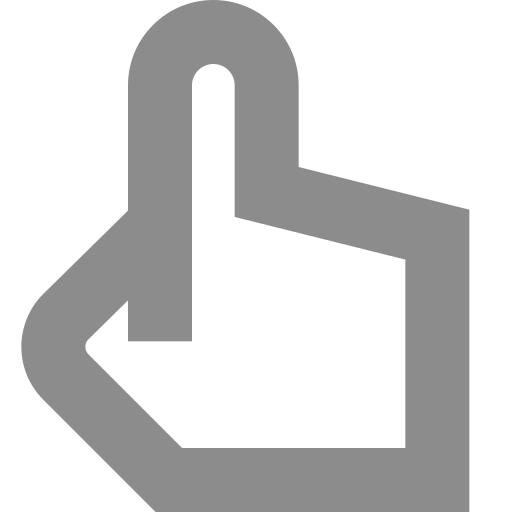
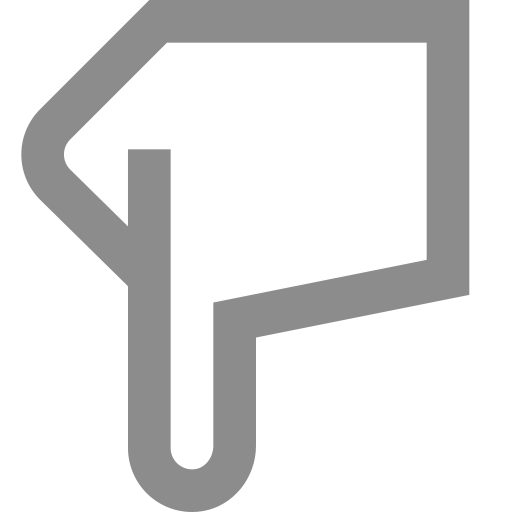
[0602: Styling Changes]

diff --git a/FRONT/src/COMPONENTs/ConnectXBoard/ConnectXBoard.js b/FRONT/src/COMPONENTs/ConnectXBoard/ConnectXBoard.js
@@ -6,20 +6,22 @@ import { ConnectXBoardContexts } from "../../CONTEXTs/ConnectXBoardContexts";
 import BOX_DARK from "./IMGs/board_box_dark_theme.svg";
 
 import player_1_finger_cursor_dark_theme from "./IMGs/player_1_finger_cursor_dark_theme.png";
+import player_1_finger_snap_dark_theme from "./IMGs/player_1_finger_snap_dark_theme.png";
 import player_2_finger_cursor_dark_theme from "./IMGs/player_2_finger_cursor_dark_theme.png";
+import player_2_finger_snap_dark_theme from "./IMGs/player_2_finger_snap_dark_theme.png";
 /* IMGs -------------------------------------------------------------------------------------------------- */
 const EMPTY_BOARD = [
-  [0, 0, 0, 0, 0, 0],
-  [0, 0, 0, 0, 0, 0],
-  [0, 0, 0, 0, 0, 0],
-  [0, 0, 0, 0, 0, 0],
-  [0, 0, 0, 0, 0, 0],
-  [0, 0, 0, 0, 0, 0],
+  [0, 0, 0, 0, 0, 0, 0],
+  [0, 0, 0, 0, 0, 0, 0],
+  [0, 0, 0, 0, 0, 0, 0],
+  [0, 0, 0, 0, 0, 0, 0],
+  [0, 0, 0, 0, 0, 0, 0],
+  [0, 0, 0, 0, 0, 0, 0],
 ];
 /* CONSTs ----------------------------------------------------------------------------------------- CONSTs */
 /* { SIZEs } */
 const BOX_SIZE = 40;
-const CHECKER_SIZE = 27;
+const CHECKER_SIZE = 24;
 const BOARD_BORDER = 12;
 /* { TYPEs } */
 const CHECKER_TYPES = {
@@ -33,6 +35,12 @@ const PLAYER_TYPES = {
   PLAYER_1: 1,
   PLAYER_2: 2,
 };
+const GAME_STATUS = {
+  DRAW: 0,
+  PLAYER_1_WIN: 1,
+  PLAYER_2_WIN: 2,
+  IN_PROGRESS: 3,
+};
 const CHECKER_COLORS = {
   PLAYER_1: "#8C8C8C",
   PLAYER_2: "#494949",
@@ -41,11 +49,13 @@ const CHECKER_COLORS = {
 const PLAYER_CURSORs = {
   1: player_1_finger_cursor_dark_theme,
   2: player_2_finger_cursor_dark_theme,
+  3: player_1_finger_snap_dark_theme,
+  4: player_2_finger_snap_dark_theme,
 };
 /* CONST ------------------------------------------------------------------------------------------------- */
 
 /* FETCH =========================================================================================== FETCH */
-const sendState = async (board, playerType) => {
+const requestMovement = async (board, playerType) => {
   try {
     const response = await axios.post(
       "http://localhost:5000/request_agent_movement",
@@ -57,6 +67,24 @@ const sendState = async (board, playerType) => {
       }
     );
     return response.data.column;
+  } catch (error) {
+    console.error("Error fetching the move from the backend:", error);
+    return null;
+  }
+};
+const checkStateStatus = async (board, playerType, lastChecker) => {
+  try {
+    const response = await axios.post(
+      "http://localhost:5000/check_state_status",
+      {
+        board: board.map((row) =>
+          row.map((cell) => (cell === 1 ? 1 : cell === 2 ? 2 : 0))
+        ),
+        player: playerType,
+        lastChecker: lastChecker,
+      }
+    );
+    return response.data.status;
   } catch (error) {
     console.error("Error fetching the move from the backend:", error);
     return null;
@@ -118,9 +146,10 @@ const ControllableFingerCursor = ({ playerType }) => {
   const { board, boardDimensions, currentTurn, handleDropOnColumn } =
     useContext(ConnectXBoardContexts);
 
-  const [pointingColumn, setPointingColumn] = useState(0);
+  const [pointingColumn, setPointingColumn] = useState(board[0].length - 1);
   const [isCursorDown, setIsCursorDown] = useState(false);
-  const [top, setTop] = useState(0);
+  const [top, setTop] = useState(null);
+  const [transform, setTransform] = useState(null);
 
   /* { KEY DOWN LISTENER } */
   useEffect(() => {
@@ -171,6 +200,7 @@ const ControllableFingerCursor = ({ playerType }) => {
       document.removeEventListener("keydown", handleKeyDown);
     };
   }, []);
+  /* { DROP COLUMN WHEN CURSOR DOWN } */
   useEffect(() => {
     if (isCursorDown && playerType === currentTurn) {
       handleDropOnColumn(pointingColumn, CHECKER_TYPES.PLAYER_1);
@@ -179,7 +209,9 @@ const ControllableFingerCursor = ({ playerType }) => {
       setIsCursorDown(false);
     }, 64);
   }, [isCursorDown]);
+  /* { STYLING } */
   useEffect(() => {
+    /* { TOP } */
     if (playerType !== currentTurn) {
       setTimeout(() => {
         setTop(`CALC(50% - ${boardDimensions[1] / 2 + BOX_SIZE * 1.2}px)`);
@@ -189,19 +221,34 @@ const ControllableFingerCursor = ({ playerType }) => {
     } else {
       setTop(`CALC(50% - ${boardDimensions[1] / 2 + 4}px)`);
     }
-  }, [isCursorDown, boardDimensions]);
+    /* { TRANSFORM } */
+    if (playerType === PLAYER_TYPES.PLAYER_1) {
+      if (playerType === currentTurn) {
+        setTransform(` translate(-35%, -100%) scaleX(1)`);
+      } else {
+        setTransform(` translate(-35%, -100%) scaleX(-1)`);
+      }
+    } else {
+      if (playerType === currentTurn) {
+        setTransform(` translate(-60%, -100%) scaleX(-1)`);
+      } else {
+        setTransform(` translate(-60%, -100%) scaleX(1)`);
+      }
+    }
+  }, [isCursorDown, boardDimensions, currentTurn]);
 
   return (
     <div>
       <img
-        src={PLAYER_CURSORs[playerType]}
+        src={
+          playerType === currentTurn
+            ? PLAYER_CURSORs[playerType]
+            : PLAYER_CURSORs[playerType + 2]
+        }
         style={{
           position: "absolute",
           transition: "left 0.12s ease, top 0.08s ease, opacity 0.16s ease",
-          transform:
-            playerType === PLAYER_TYPES.PLAYER_1
-              ? " translate(-40%, -100%) rotate(180deg) scaleX(-1)"
-              : " translate(-56%, -100%) rotate(180deg) scaleX(1)",
+          transform: transform,
           top: top,
           left: `CALC(50% - ${
             boardDimensions[0] / 2 -
@@ -228,7 +275,9 @@ const UncontrollableFingerCursor = ({ playerType }) => {
 
   const [pointingColumn, setPointingColumn] = useState(0);
   const [isCursorDown, setIsCursorDown] = useState(false);
-  const [top, setTop] = useState(0);
+  const [top, setTop] = useState(null);
+  const [transform, setTransform] = useState(null);
+
   useEffect(() => {
     if (playerType === currentTurn) {
       const interval = setInterval(() => {
@@ -239,7 +288,10 @@ const UncontrollableFingerCursor = ({ playerType }) => {
       const requestAgentMovement = async () => {
         let agentPointingColumn = -1;
         while (!checkColumnAvailability(agentPointingColumn)) {
-          agentPointingColumn = await sendState(board, PLAYER_TYPES.PLAYER_2);
+          agentPointingColumn = await requestMovement(
+            board,
+            PLAYER_TYPES.PLAYER_2
+          );
         }
         setPointingColumn(agentPointingColumn);
         setIsCursorDown(true);
@@ -261,7 +313,9 @@ const UncontrollableFingerCursor = ({ playerType }) => {
       }, 128);
     }
   }, [isCursorDown]);
+  /* { STYLING } */
   useEffect(() => {
+    /* { TOP } */
     if (playerType !== currentTurn) {
       setTimeout(() => {
         setTop(`CALC(50% - ${boardDimensions[1] / 2 + BOX_SIZE * 1.2}px)`);
@@ -271,19 +325,34 @@ const UncontrollableFingerCursor = ({ playerType }) => {
     } else {
       setTop(`CALC(50% - ${boardDimensions[1] / 2 + 4}px)`);
     }
-  }, [isCursorDown, boardDimensions]);
+    /* { TRANSFORM } */
+    if (playerType === PLAYER_TYPES.PLAYER_1) {
+      if (playerType === currentTurn) {
+        setTransform(` translate(-35%, -100%) scaleX(1)`);
+      } else {
+        setTransform(` translate(-35%, -100%) scaleX(-1)`);
+      }
+    } else {
+      if (playerType === currentTurn) {
+        setTransform(` translate(-60%, -100%) scaleX(-1)`);
+      } else {
+        setTransform(` translate(-60%, -100%) scaleX(1)`);
+      }
+    }
+  }, [isCursorDown, boardDimensions, currentTurn]);
 
   return (
     <div>
       <img
-        src={PLAYER_CURSORs[playerType]}
+        src={
+          playerType === currentTurn
+            ? PLAYER_CURSORs[playerType]
+            : PLAYER_CURSORs[playerType + 2]
+        }
         style={{
           position: "absolute",
           transition: "left 0.12s ease, top 0.08s ease",
-          transform:
-            playerType === PLAYER_TYPES.PLAYER_1
-              ? " translate(-40%, -100%) rotate(180deg) scaleX(-1)"
-              : " translate(-56%, -100%) rotate(180deg) scaleX(1)",
+          transform: transform,
           top: top,
           left: `CALC(50% - ${
             boardDimensions[0] / 2 -
@@ -365,6 +434,8 @@ const ConnectXBoard = () => {
   const [board, setBoard] = useState(EMPTY_BOARD);
   const [boardDimensions, setBoardDimensions] = useState([0, 0]);
   const [currentTurn, setCurrentTurn] = useState(PLAYER_TYPES.PLAYER_1);
+  const [lastChecker, setLastChecker] = useState(null);
+  const [inarow, setInarow] = useState(0);
 
   /* { BOARD DIMENSIONS UPDATER } */
   useEffect(() => {
@@ -373,6 +444,8 @@ const ConnectXBoard = () => {
       board.length * BOX_SIZE + BOARD_BORDER * 2,
     ]);
   }, [board]);
+  /* { CHECK GAME STATUS } */
+
   /* { DROP CHECKERs } */
   const checkColumnAvailability = (columnIndex) => {
     return board[0][columnIndex] === 0;
@@ -394,7 +467,7 @@ const ConnectXBoard = () => {
             ? PLAYER_TYPES.PLAYER_2
             : PLAYER_TYPES.PLAYER_1
         );
-
+        setLastChecker({ row, column: columnIndex });
         break;
       }
     }

diff --git a/BACK.py b/BACK.py
@@ -781,6 +781,38 @@ def request_agent_movement():
     column = agent.move(observation, configuration)
     
     return jsonify({'column': column})
+@app.route('/check_state_status', methods=['POST'])
+def check_state_status():
+    data = request.get_json()
+    board = np.array(data['board'])
+    player_type = data['player']
+    last_checker = data['last_checker']
+    
+    configuration = SimpleNamespace(
+        columns = board.shape[1],
+        rows = board.shape[0],
+        inarow = 4
+    )
+    observation = SimpleNamespace(
+        board = board.tolist()[::-1],
+        mark = player_type
+    )
+    
+    C = ConnectX(inarow = configuration.inarow, board = observation.board, turn = observation.mark, last_checker = [last_checker.row, last_checker.column])
+    
+    if C.last_checker_longest_connection() >= C.inarow:
+        return jsonify({'status': 3 - C.turn})
+    
+    is_draw = True
+    for r in range(C.rows):
+        for c in range(C.columns):
+            if C.board[r][c] == 0:
+                is_draw = False
+                break
+    if is_draw:
+        return jsonify({'status': 0})
+    return jsonify({'status': 3})
+
 
 if __name__ == '__main__':
     app.run(debug=True)
